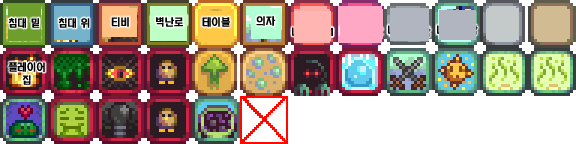
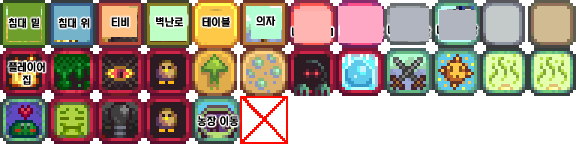
레벨 체인지 셋팅중

Changed region(s): [[0.3125, 0.7778, 0.4375, 0.8889]]

diff --git a/API/GameEngineContents/MyFarmLevel.cpp b/API/GameEngineContents/MyFarmLevel.cpp
@@ -6,6 +6,7 @@
 #include "SmallWood2.h"
 #include "PlayerHouse.h"
 #include "Block.h"
+#include "MoveHouse.h"
 
 #include <GameEngineBase/GameEngineTime.h>
 
@@ -20,32 +21,36 @@ MyFarmLevel::MyFarmLevel()
 	Iter(MapObject_.begin())
 
 {
+
+	SetName("MyFarmLevel");
+
+
+	Player_ = CreateActor<Player>((int)PLAYLEVEL::PLAYER);
+	PlayerEnergyFrame_ = CreateActor<PlayerEnergyFrame>((int)PLAYLEVEL::ENERGYFRAME);
+	PlayerEnergyBar_ = CreateActor<PlayerEnergyBar>((int)PLAYLEVEL::ENERGYBAR);
+	MainUI_ = CreateActor<MainUI>((int)PLAYLEVEL::MAINUI);
+	BackGround_ = CreateActor<BackGround>((int)PLAYLEVEL::BACKGROUND);
 }
 
 MyFarmLevel::~MyFarmLevel()
 {
+
 }
 
 void MyFarmLevel::Loading()
 {
-
 	
-	Player_ = CreateActor<Player>((int)PLAYLEVEL::PLAYER);
-	
-	PlayerEnergyFrame_ = CreateActor<PlayerEnergyFrame>((int)PLAYLEVEL::ENERGYFRAME);
-	PlayerEnergyBar_ = CreateActor<PlayerEnergyBar>((int)PLAYLEVEL::ENERGYBAR);
-	MainUI_ = CreateActor<MainUI>((int)PLAYLEVEL::MAINUI);
-
-	BackGround_ = CreateActor<BackGround>((int)PLAYLEVEL::BACKGROUND);
-	BackGround_->GetRenderer()->SetImage("FarmBack.bmp");
-	BackGround_->GetRenderer()->SetPivot({ FARM_SIZE_WEIGHT / 2, FARM_SIZE_HEIGHT / 2 });
-
-	LoadMapObject();
-	//Inventory_->AllUpdateOff();
 }
 
 void MyFarmLevel::LevelChangeStart()
 {
+
+
+	BackGround_->GetRenderer()->SetImage("FarmBack.bmp");
+	BackGround_->GetRenderer()->SetPivot({ FARM_SIZE_WEIGHT / 2, FARM_SIZE_HEIGHT / 2 });
+
+	LoadMapObject();
+
 	BgmPlayer = GameEngineSound::SoundPlayControl("05 - Spring (It's A Big World Outside).mp3");
 	Time = 5.0f;
 
@@ -110,9 +115,9 @@ void MyFarmLevel::LoadMapObject()
 			case OBJECT_TILE::WEED2:
 				break;
 
-			case OBJECT_TILE::MY_HOUSE :
+			case OBJECT_TILE::MOVE_HOUSE :
 
-			//	MapObject_.push_back(CreateActor<PlayerHouse>((int)PLAYLEVEL::OBJECT));
+				MapObject_.push_back(CreateActor<MoveHouse>((int)PLAYLEVEL::OBJECT));
 				
 				break;
 

diff --git a/API/GameEngineContents/MyHouseLevel.cpp b/API/GameEngineContents/MyHouseLevel.cpp
@@ -22,6 +22,13 @@ MyHouseLevel::MyHouseLevel()
 	Iter(MapObject_.begin())
 
 {
+	SetName("MyHouseLevel");
+
+	Player_ = CreateActor<Player>((int)PLAYLEVEL::PLAYER);
+	MainUI_ = CreateActor<MainUI>((int)PLAYLEVEL::MAINUI);
+	BackGround_ = CreateActor<BackGround>((int)PLAYLEVEL::BACKGROUND);
+
+
 }
 
 MyHouseLevel::~MyHouseLevel()
@@ -31,19 +38,22 @@ MyHouseLevel::~MyHouseLevel()
 void MyHouseLevel::Loading()
 {
 
-	
-	Player_ = CreateActor<Player>((int)PLAYLEVEL::PLAYER);
+
+	//Inventory_->AllUpdateOff();
+}
+
+void MyHouseLevel::LevelChangeStart()
+{
+
 	Player_->SetPosition({ GameEngineWindow::GetScale().Half().x,  GameEngineWindow::GetScale().Half().y + 100.f });
 	Player_->Renderer()->CameraEffectOff();
 
-	MainUI_ = CreateActor<MainUI>((int)PLAYLEVEL::MAINUI);
 
 
-	BackGround_ = CreateActor<BackGround>((int)PLAYLEVEL::BACKGROUND);
 
 	BackGround_->GetRenderer()->SetImage("PlayerHouse.bmp");
 	BackGround_->GetRenderer()->CameraEffectOff();
-	BackGround_->GetRenderer()->SetPivot({ GameEngineWindow::GetScale().Half().x,  GameEngineWindow::GetScale().Half().y});
+	BackGround_->GetRenderer()->SetPivot({ GameEngineWindow::GetScale().Half().x,  GameEngineWindow::GetScale().Half().y });
 
 
 
@@ -52,13 +62,7 @@ void MyHouseLevel::Loading()
 
 
 	LoadMapObject();
-	//Inventory_->AllUpdateOff();
-}
-
-void MyHouseLevel::LevelChangeStart()
-{
-
-	BgmPlayer.Stop();
+	//BgmPlayer.Stop();
 
 
 }
@@ -98,7 +102,13 @@ void MyHouseLevel::LoadMapObject()
 				break;
 		
 
-			//	break;
+			case MYHOUSE_OBJECT_TILE::MOVE_FARM:
+
+				MapObject_.push_back(CreateActor<MoveFarm>((int)PLAYLEVEL::TOPOBJECT));
+				ThisIter = --MapObject_.end();
+				(*ThisIter)->getRenderer()->CameraEffectOff();
+
+				break;
 			default:
 				break;
 			}

diff --git a/API/GameEngineContents/Player.h b/API/GameEngineContents/Player.h
@@ -82,8 +82,11 @@ private:
 	Inventory* Inventory_;
 	PLAYERSTATE PlayerState_;
 	GameEngineImage* MapColImage_;
-
 	Hoe* Hoe_;
+
+	static std::string CurrentLevel_;
+	static std::string PrevLevel_;
+
 private:
 
 	bool isStop();
@@ -96,14 +99,13 @@ private:
 	void PlayerDirCheck();
 	void PlayerCollCheck();
 	void SetColl();
+	void SetPlayerStartPos();
 
 	std::string GetCurrentLevel()
 	{
-		return GetLevel()->GetNameCopy();
+		return GetLevel()->GetNameConstRef();
 	}
 
-
-	//bool MapCollCheck();
 
 	bool PlayerMouseClickCollision() {
 
@@ -116,6 +118,10 @@ private:
 		return (PlayerCollider_->CollisionResult("MoveFarm", ColList, CollisionType::Rect, CollisionType::Rect));
 	}
 
+	bool MoveHouseCollision() {
+
+		return (PlayerCollider_->CollisionResult("MoveHouse", ColList, CollisionType::Rect, CollisionType::Rect));
+	}
 
 	float GetEnergy() {
 		return Energy_;

diff --git a/API/GameEngine/GameEngineImage.cpp b/API/GameEngine/GameEngineImage.cpp
@@ -265,25 +265,25 @@ void GameEngineImage::Cut(const float4& _CutSize)
 
 int GameEngineImage::GetImagePixel(int _x, int _y)
 {
-	if (0 > _x)
-	{
-		return RGB(0, 0, 0);
-	}
+	//if (0 > _x)
+	//{
+	//	return RGB(0, 0, 0);
+	//}
 
-	if (0 > _y)
-	{
-		return RGB(0, 0, 0);
-	}
+	//if (0 > _y)
+	//{
+	//	return RGB(0, 0, 0);
+	//}
 
-	if (GetScale().ix() <= _x)
-	{
-		return RGB(0, 0, 0);
-	}
+	//if (GetScale().ix() <= _x)
+	//{
+	//	return RGB(0, 0, 0);
+	//}
 
-	if (GetScale().iy() <= _y)
-	{
-		return RGB(0, 0, 0);
-	}
+	//if (GetScale().iy() <= _y)
+	//{
+	//	return RGB(0, 0, 0);
+	//}
 
 	return GetPixel(ImageDC_, _x, _y);
 }

diff --git a/API/GameEngineContents/MoveHouse.cpp b/API/GameEngineContents/MoveHouse.cpp
@@ -1,0 +1,20 @@
+#include "MoveHouse.h"
+
+MoveHouse::MoveHouse() 
+{
+}
+
+MoveHouse::~MoveHouse() 
+{
+}
+
+void MoveHouse::Start()
+{
+	ItemRenderer_ = CreateRenderer("block.bmp");
+	//ItemRenderer_->CameraEffectOff();
+	ItemRenderer_->SetPivotType(RenderPivot::CENTER);
+	//SetScale({ 48.f, 48.f });
+	ItemCollider_ = CreateCollision("MoveHouse", { 48, 24 });
+	ItemType_ = ITEMTYPE::BLOCK;
+}
+

diff --git a/API/GameEngineContents/MoveFarm.cpp b/API/GameEngineContents/MoveFarm.cpp
@@ -11,10 +11,10 @@ MoveFarm::~MoveFarm()
 void MoveFarm::Start()
 {
 	ItemRenderer_ = CreateRenderer("block.bmp");
-	//ItemRenderer_->CameraEffectOff();
+	
 	ItemRenderer_->SetPivotType(RenderPivot::CENTER);
 	//SetScale({ 48.f, 48.f });
-	ItemCollider_ = CreateCollision("MoveFarm", { 48, 24 });
+	ItemCollider_ = CreateCollision("MoveFarm", { 48, 10 });
 	ItemType_ = ITEMTYPE::BLOCK;
 }
 

diff --git a/API/GameEngineContents/GameData.h b/API/GameEngineContents/GameData.h
@@ -3,6 +3,9 @@
 #define FARM_SIZE_WEIGHT 3840.f
 #define FARM_SIZE_HEIGHT 3120.f
 
+#define HOUSE_SIZE_WEIGHT 3840.f
+#define HOUSE_SIZE_HEIGHT 3120.f
+
 #define CHIP_NUM_X 80
 #define CHIP_NUM_Y 65
 

diff --git a/API/GameEngineContents/StardewValley.cpp b/API/GameEngineContents/StardewValley.cpp
@@ -131,7 +131,7 @@ void StardewValley::GameInit()
 	CreateLevel<MyFarmLevel>("MyFarmLevel");
 
 
-	ChangeLevel("MyFarmLevel");
+	ChangeLevel("MyHouseLevel");
 
 
 }
